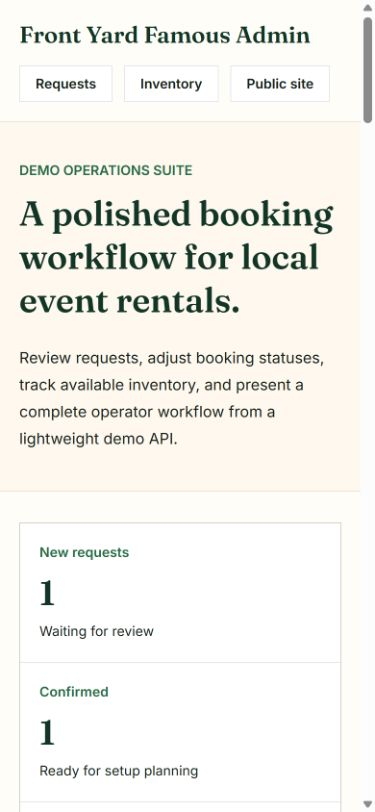
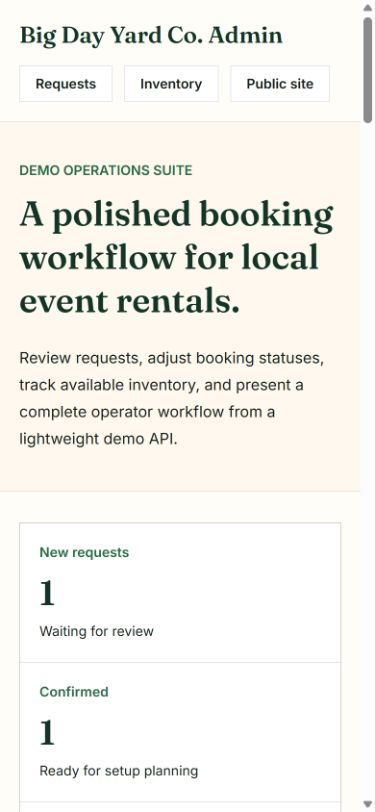
chore: prepare demo rebrand deployment

Changed region(s): [[0.0587, 0.0308, 0.8213, 0.0616]]

diff --git a/src/App.tsx b/src/App.tsx
@@ -35,57 +35,57 @@ const publicPaths = new Set<PublicPath>([
   '/booking',
   '/faq',
 ]);
-const siteUrl = 'https://fyf.com';
+const siteUrl = 'https://big-day-yard-co-demo.vercel.app';
 const socialImagePath = '/images/hero-birthday-display.png';
 
 const publicPageMetadata: Record<PublicPath, PageMetadataDefinition> = {
   '/': {
-    title: 'Front Yard Famous | Modern Yard Greetings',
+    title: 'Big Day Yard Co. | Modern Yard Greetings',
     description:
       'Stylish yard sign setups for birthdays, new babies, graduations, anniversaries, retirements, and custom celebrations.',
     path: '/',
   },
   '/occasions': {
-    title: 'Occasions | Front Yard Famous',
+    title: 'Occasions | Big Day Yard Co.',
     description:
-      'Browse Front Yard Famous yard greeting options for birthdays, new babies, graduations, anniversaries, retirements, and custom celebrations.',
+      'Browse Big Day Yard Co. yard greeting options for birthdays, new babies, graduations, anniversaries, retirements, and custom celebrations.',
     path: '/occasions',
   },
   '/gallery': {
-    title: 'Gallery | Front Yard Famous',
+    title: 'Gallery | Big Day Yard Co.',
     description:
-      'Explore modern yard sign display ideas, milestone numbers, storks, graduation setups, and celebration themes from Front Yard Famous.',
+      'Explore modern yard sign display ideas, milestone numbers, storks, graduation setups, and celebration themes from Big Day Yard Co..',
     path: '/gallery',
   },
   '/pricing': {
-    title: 'Pricing | Front Yard Famous',
+    title: 'Pricing | Big Day Yard Co.',
     description:
-      'Review simple starting packages and custom yard sign setup options from Front Yard Famous.',
+      'Review simple starting packages and custom yard sign setup options from Big Day Yard Co..',
     path: '/pricing',
   },
   '/builder': {
-    title: 'Yard Display Builder | Front Yard Famous',
+    title: 'Yard Display Builder | Big Day Yard Co.',
     description:
-      'Prototype a Front Yard Famous yard display by arranging sample letters, numbers, icons, and fillers on a yard canvas.',
+      'Prototype a Big Day Yard Co. yard display by arranging sample letters, numbers, icons, and fillers on a yard canvas.',
     path: '/builder',
   },
   '/booking': {
-    title: 'Request a Date | Front Yard Famous',
+    title: 'Request a Date | Big Day Yard Co.',
     description:
-      'Request a Front Yard Famous yard sign setup date and share celebration details for manual availability review.',
+      'Request a Big Day Yard Co. yard sign setup date and share celebration details for manual availability review.',
     path: '/booking',
   },
   '/faq': {
-    title: 'FAQ and Service Area | Front Yard Famous',
+    title: 'FAQ and Service Area | Big Day Yard Co.',
     description:
-      'Find answers about Front Yard Famous setup timing, booking confirmation, service area review, weather, and custom yard greeting requests.',
+      'Find answers about Big Day Yard Co. setup timing, booking confirmation, service area review, weather, and custom yard greeting requests.',
     path: '/faq',
   },
 };
 
 const adminPageMetadata: PageMetadataDefinition = {
-  title: 'Admin | Front Yard Famous',
-  description: 'Private Front Yard Famous booking and inventory management area.',
+  title: 'Admin | Big Day Yard Co.',
+  description: 'Private Big Day Yard Co. booking and inventory management area.',
   path: '/admin',
   robots: 'noindex,nofollow',
 };
@@ -269,7 +269,7 @@ function Header({ currentPath }: HeaderProps) {
     <header className="border-b border-ink/10 bg-cream/95">
       <div className="mx-auto flex max-w-6xl flex-col gap-4 px-5 py-5 sm:px-8 lg:flex-row lg:items-center lg:justify-between">
         <a className="font-display text-2xl font-semibold text-forest" href="/">
-          Front Yard Famous
+          Big Day Yard Co.
         </a>
         <nav aria-label="Main navigation" className="flex w-full gap-2 overflow-x-auto text-sm font-semibold lg:w-auto lg:items-center lg:gap-3">
           {navItems.map((item) => (
@@ -305,7 +305,7 @@ function Hero() {
           Modern yard greetings
         </p>
         <h1 className="mt-5 max-w-3xl font-display text-5xl font-semibold leading-[1.02] text-forest sm:text-6xl">
-          Make their big day Front Yard Famous.
+          Make their big day Big Day Yard Co..
         </h1>
         <p className="mt-6 max-w-xl text-lg leading-8 text-ink/70">
           Stylish yard sign setups for birthdays, new babies, graduations,
@@ -528,7 +528,7 @@ function ServiceAreaSection() {
             Local setup coverage, confirmed before booking.
           </h1>
           <p className="mt-5 leading-7 text-ink/68">
-            Front Yard Famous can start with a practical service-area review instead of
+            Big Day Yard Co. can start with a practical service-area review instead of
             promising instant availability across every neighborhood.
           </p>
         </div>
@@ -978,7 +978,7 @@ function ContactSection() {
         </div>
         <a
           className="rounded-full bg-forest px-6 py-3 text-center text-sm font-semibold text-white transition hover:bg-lawn"
-          href="mailto:hello@frontyardfamous.com?subject=Front%20Yard%20Famous%20booking%20request"
+          href="mailto:hello@bigdayyardco.example?subject=Big%20Day%20Yard%20Co%20booking%20request"
         >
           Email placeholder
         </a>
@@ -1176,7 +1176,7 @@ function Footer() {
   return (
     <footer className="border-t border-ink/10 bg-cream">
       <div className="mx-auto flex max-w-6xl flex-col gap-3 px-5 py-8 text-sm text-ink/62 sm:px-8 md:flex-row md:items-center md:justify-between">
-        <p className="font-semibold text-forest">Front Yard Famous</p>
+        <p className="font-semibold text-forest">Big Day Yard Co.</p>
         <p>Yard greetings, storks, milestone numbers, and custom celebration displays.</p>
       </div>
     </footer>

diff --git a/index.html b/index.html
@@ -5,33 +5,33 @@
     <meta name="viewport" content="width=device-width, initial-scale=1.0" />
     <meta
       name="description"
-      content="Front Yard Famous creates modern yard greetings, storks, and celebration displays for birthdays, new babies, graduations, retirements, and more."
+      content="Big Day Yard Co. creates modern yard greetings, storks, and celebration displays for birthdays, new babies, graduations, retirements, and more."
     />
     <meta name="theme-color" content="#123526" />
-    <meta property="og:site_name" content="Front Yard Famous" />
-    <meta property="og:title" content="Front Yard Famous | Modern Yard Greetings" />
+    <meta property="og:site_name" content="Big Day Yard Co." />
+    <meta property="og:title" content="Big Day Yard Co. | Modern Yard Greetings" />
     <meta
       property="og:description"
       content="Stylish yard sign setups for birthdays, new babies, graduations, anniversaries, retirements, and custom celebrations."
     />
     <meta property="og:type" content="website" />
-    <meta property="og:url" content="https://fyf.com/" />
-    <meta property="og:image" content="https://fyf.com/images/hero-birthday-display.png" />
+    <meta property="og:url" content="https://big-day-yard-co-demo.vercel.app/" />
+    <meta property="og:image" content="https://big-day-yard-co-demo.vercel.app/images/hero-birthday-display.png" />
     <meta
       property="og:image:alt"
       content="Premium happy birthday yard display with large letters and bright graphic accents"
     />
     <meta name="twitter:card" content="summary_large_image" />
-    <meta name="twitter:title" content="Front Yard Famous | Modern Yard Greetings" />
+    <meta name="twitter:title" content="Big Day Yard Co. | Modern Yard Greetings" />
     <meta
       name="twitter:description"
       content="Modern yard greetings, storks, milestone numbers, and custom celebration displays."
     />
-    <meta name="twitter:image" content="https://fyf.com/images/hero-birthday-display.png" />
-    <link rel="canonical" href="https://fyf.com/" />
+    <meta name="twitter:image" content="https://big-day-yard-co-demo.vercel.app/images/hero-birthday-display.png" />
+    <link rel="canonical" href="https://big-day-yard-co-demo.vercel.app/" />
     <link rel="icon" type="image/svg+xml" href="/favicon.svg" />
     <link rel="manifest" href="/site.webmanifest" />
-    <title>Front Yard Famous | Modern Yard Greetings</title>
+    <title>Big Day Yard Co. | Modern Yard Greetings</title>
   </head>
   <body>
     <div id="root"></div>

diff --git a/tests/api/server.test.js b/tests/api/server.test.js
@@ -40,13 +40,13 @@ const validPayload = {
   themeNotes: 'Soft greens and stars',
 };
 
-describe('Front Yard Famous API', () => {
+describe('Big Day Yard Co. API', () => {
   let baseUrl;
   let server;
   let tempDirectory;
 
   before(async () => {
-    tempDirectory = await mkdtemp(path.join(tmpdir(), 'fyf-api-test-'));
+    tempDirectory = await mkdtemp(path.join(tmpdir(), 'bdy-api-test-'));
     const bookingStore = createBookingStore(path.join(tempDirectory, 'bookings.json'));
     server = createApiServer({ bookingStore, storage: 'test-json' });
 
@@ -80,7 +80,7 @@ describe('Front Yard Famous API', () => {
     assert.equal(response.status, 200);
     assert.deepEqual(body, {
       ok: true,
-      service: 'front-yard-famous-api',
+      service: 'big-day-yard-co-api',
       storage: 'test-json',
     });
   });
@@ -127,7 +127,7 @@ describe('Front Yard Famous API', () => {
     const created = await createResponse.json();
 
     assert.equal(createResponse.status, 201);
-    assert.equal(created.id, 'FYF-1001');
+    assert.equal(created.id, 'BDY-1001');
     assert.equal(created.status, 'new');
 
     const listResponse = await fetch(`${baseUrl}/api/bookings`);
@@ -195,7 +195,7 @@ describe('Front Yard Famous API', () => {
   });
 
   it('rejects invalid booking status updates', async () => {
-    const response = await fetch(`${baseUrl}/api/bookings/FYF-9999/status`, {
+    const response = await fetch(`${baseUrl}/api/bookings/BDY-9999/status`, {
       body: JSON.stringify({ status: 'maybe' }),
       headers: {
         'Content-Type': 'application/json',
@@ -211,7 +211,7 @@ describe('Front Yard Famous API', () => {
   });
 
   it('returns not found when a valid status targets a missing booking', async () => {
-    const response = await fetch(`${baseUrl}/api/bookings/FYF-9999/status`, {
+    const response = await fetch(`${baseUrl}/api/bookings/BDY-9999/status`, {
       body: JSON.stringify({ status: 'confirmed' }),
       headers: {
         'Content-Type': 'application/json',

diff --git a/tests/api/bookingStore.test.js b/tests/api/bookingStore.test.js
@@ -7,7 +7,7 @@ import { createBookingStore } from '../../server/bookingStore.js';
 
 const seededBookings = [
   {
-    id: 'FYF-1024',
+    id: 'BDY-1024',
     status: 'new',
     createdAt: '2026-08-27T14:20:00.000Z',
     updatedAt: '2026-08-27T14:20:00.000Z',
@@ -42,7 +42,7 @@ describe('createBookingStore', () => {
   let store;
 
   before(async () => {
-    tempDirectory = await mkdtemp(path.join(tmpdir(), 'fyf-store-test-'));
+    tempDirectory = await mkdtemp(path.join(tmpdir(), 'bdy-store-test-'));
     store = createBookingStore(path.join(tempDirectory, 'bookings.json')).seed(seededBookings);
   });
 
@@ -54,13 +54,13 @@ describe('createBookingStore', () => {
     const bookings = await store.list();
 
     assert.equal(bookings.length, 1);
-    assert.equal(bookings[0].id, 'FYF-1024');
+    assert.equal(bookings[0].id, 'BDY-1024');
   });
 
   it('creates bookings after the highest seeded id', async () => {
     const booking = await store.create(bookingPayload);
 
-    assert.equal(booking.id, 'FYF-1025');
+    assert.equal(booking.id, 'BDY-1025');
     assert.equal(booking.status, 'new');
 
     const bookings = await store.list();
@@ -68,9 +68,9 @@ describe('createBookingStore', () => {
   });
 
   it('updates seeded or persisted booking status', async () => {
-    const booking = await store.updateStatus('FYF-1024', 'confirmed');
+    const booking = await store.updateStatus('BDY-1024', 'confirmed');
 
-    assert.equal(booking.id, 'FYF-1024');
+    assert.equal(booking.id, 'BDY-1024');
     assert.equal(booking.status, 'confirmed');
   });
 });

diff --git a/src/lib/builderPreviewExport.ts b/src/lib/builderPreviewExport.ts
@@ -12,7 +12,7 @@ export function downloadBuilderPreview(layout: BuilderCanvasPiece[]) {
   const link = document.createElement('a');
 
   link.href = url;
-  link.download = `front-yard-famous-builder-${Date.now()}.svg`;
+  link.download = `big-day-yard-co-builder-${Date.now()}.svg`;
   document.body.appendChild(link);
   link.click();
   link.remove();
@@ -25,7 +25,7 @@ export function createBuilderPreviewSvg(layout: BuilderCanvasPiece[]) {
   const pieces = layout.map(renderPieceSvg).join('');
 
   return `<?xml version="1.0" encoding="UTF-8"?>
-<svg xmlns="http://www.w3.org/2000/svg" width="${previewWidth}" height="${previewHeight}" viewBox="0 0 ${previewWidth} ${previewHeight}" role="img" aria-label="Front Yard Famous yard display preview">
+<svg xmlns="http://www.w3.org/2000/svg" width="${previewWidth}" height="${previewHeight}" viewBox="0 0 ${previewWidth} ${previewHeight}" role="img" aria-label="Big Day Yard Co. yard display preview">
   <rect width="1200" height="800" fill="#fff8ec"/>
   <rect x="90" y="84" width="1020" height="290" fill="#dff4e8" stroke="#17211b" stroke-opacity="0.08"/>
   <rect x="0" y="368" width="1200" height="432" fill="#4f9a68"/>

diff --git a/server/index.js b/server/index.js
@@ -27,7 +27,7 @@ export function createApiServer({
       if (request.method === 'GET' && url.pathname === '/api/health') {
         sendJson(response, 200, {
           ok: true,
-          service: 'front-yard-famous-api',
+          service: 'big-day-yard-co-api',
           storage,
         });
         return;
@@ -121,11 +121,11 @@ export function createApiServer({
   });
 }
 
-export function startApiServer({ port = config.port, host = '127.0.0.1' } = {}) {
+export function startApiServer({ port = config.port, host = config.host } = {}) {
   const server = createApiServer();
 
   server.listen(port, host, () => {
-    console.log(`Front Yard Famous API running at http://${host}:${port}`);
+    console.log(`Big Day Yard Co. API running at http://${host}:${port}`);
   });
 
   return server;
@@ -138,7 +138,7 @@ if (isMainModule()) {
 function setCorsHeaders(request, response) {
   const origin = request.headers.origin;
   const allowedOrigins = new Set([
-    config.clientOrigin,
+    ...config.clientOrigins,
     'http://127.0.0.1:5173',
     'http://localhost:5173',
   ]);

diff --git a/server/demoData.js b/server/demoData.js
@@ -1,6 +1,6 @@
 export const demoBookings = [
   {
-    id: 'FYF-1024',
+    id: 'BDY-1024',
     status: 'new',
     createdAt: '2026-08-27T14:20:00.000Z',
     updatedAt: '2026-08-27T14:20:00.000Z',
@@ -61,7 +61,7 @@ export const demoBookings = [
       ],
     },  },
   {
-    id: 'FYF-1023',
+    id: 'BDY-1023',
     status: 'reviewing',
     createdAt: '2026-08-26T19:42:00.000Z',
     updatedAt: '2026-08-27T09:15:00.000Z',
@@ -77,7 +77,7 @@ export const demoBookings = [
     themeNotes: 'Soft greens, cream, and simple baby icons.',
   },
   {
-    id: 'FYF-1022',
+    id: 'BDY-1022',
     status: 'confirmed',
     createdAt: '2026-08-24T16:30:00.000Z',
     updatedAt: '2026-08-25T12:10:00.000Z',
@@ -93,7 +93,7 @@ export const demoBookings = [
     themeNotes: 'Blue and silver school colors with class year numbers.',
   },
   {
-    id: 'FYF-1021',
+    id: 'BDY-1021',
     status: 'completed',
     createdAt: '2026-08-12T10:05:00.000Z',
     updatedAt: '2026-08-22T20:40:00.000Z',

diff --git a/server/bookingStore.js b/server/bookingStore.js
@@ -55,11 +55,11 @@ export function createBookingStore(filePath) {
       const createdAt = new Date().toISOString();
       const nextNumber =
         source
-          .map((booking) => Number.parseInt(String(booking.id).replace('FYF-', ''), 10))
+          .map((booking) => Number.parseInt(String(booking.id).replace('BDY-', ''), 10))
           .filter(Number.isFinite)
           .sort((left, right) => right - left)[0] || 1000;
       const booking = {
-        id: `FYF-${String(nextNumber + 1).padStart(4, '0')}`,
+        id: `BDY-${String(nextNumber + 1).padStart(4, '0')}`,
         status: 'new',
         createdAt,
         updatedAt: createdAt,

diff --git a/src/pages/AdminDashboard.tsx b/src/pages/AdminDashboard.tsx
@@ -170,7 +170,7 @@ function AdminHeader() {
     <header className="border-b border-ink/10 bg-linen">
       <div className="mx-auto flex max-w-6xl flex-col gap-4 px-5 py-5 sm:px-8 md:flex-row md:items-center md:justify-between">
         <a className="font-display text-2xl font-semibold text-forest" href="/admin">
-          Front Yard Famous Admin
+          Big Day Yard Co. Admin
         </a>
         <nav className="flex flex-wrap gap-3 text-sm font-semibold" aria-label="Admin navigation">
           <a

diff --git a/server/config.js b/server/config.js
@@ -31,7 +31,12 @@ if (existsSync(envPath)) {
 
 export const config = {
   port: Number(process.env.PORT || 4000),
+  host: process.env.HOST || '127.0.0.1',
   clientOrigin: process.env.CLIENT_ORIGIN || 'http://localhost:5173',
+  clientOrigins: (process.env.CLIENT_ORIGIN || 'http://localhost:5173')
+    .split(',')
+    .map((origin) => origin.trim())
+    .filter(Boolean),
   bookingsDataFile: path.resolve(
     process.cwd(),
     process.env.BOOKINGS_DATA_FILE || '.data/booking-requests.json',

diff --git a/src/lib/builderLayoutStorage.ts b/src/lib/builderLayoutStorage.ts
@@ -1,6 +1,6 @@
 import type { BuilderBookingLayout, BuilderCanvasPiece } from '../types/business';
 
-const builderLayoutStorageKey = 'front-yard-famous.builder-layout';
+const builderLayoutStorageKey = 'big-day-yard-co.builder-layout';
 const validShapes = new Set(['rectangle', 'circle', 'star', 'stork', 'cap']);
 const validCategories = new Set(['letter', 'number', 'theme', 'baby', 'graduation', 'filler']);
 

diff --git a/src/api/bookingRequests.ts b/src/api/bookingRequests.ts
@@ -32,5 +32,5 @@ function getErrorMessage(data: unknown) {
     return data.error;
   }
 
-  return 'The request could not be sent. Please try again or contact Front Yard Famous directly.';
+  return 'The request could not be sent. Please try again or contact Big Day Yard Co. directly.';
 }
